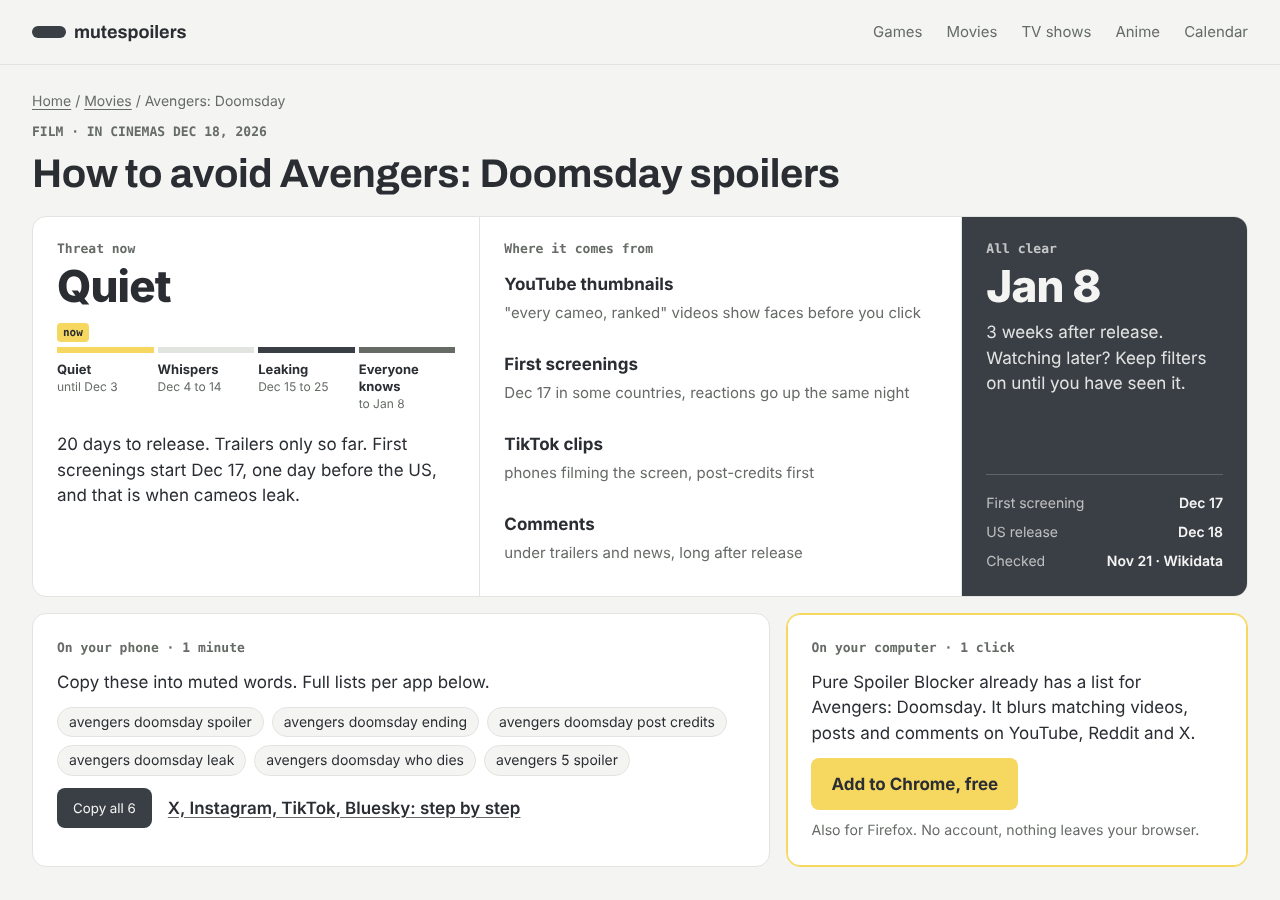
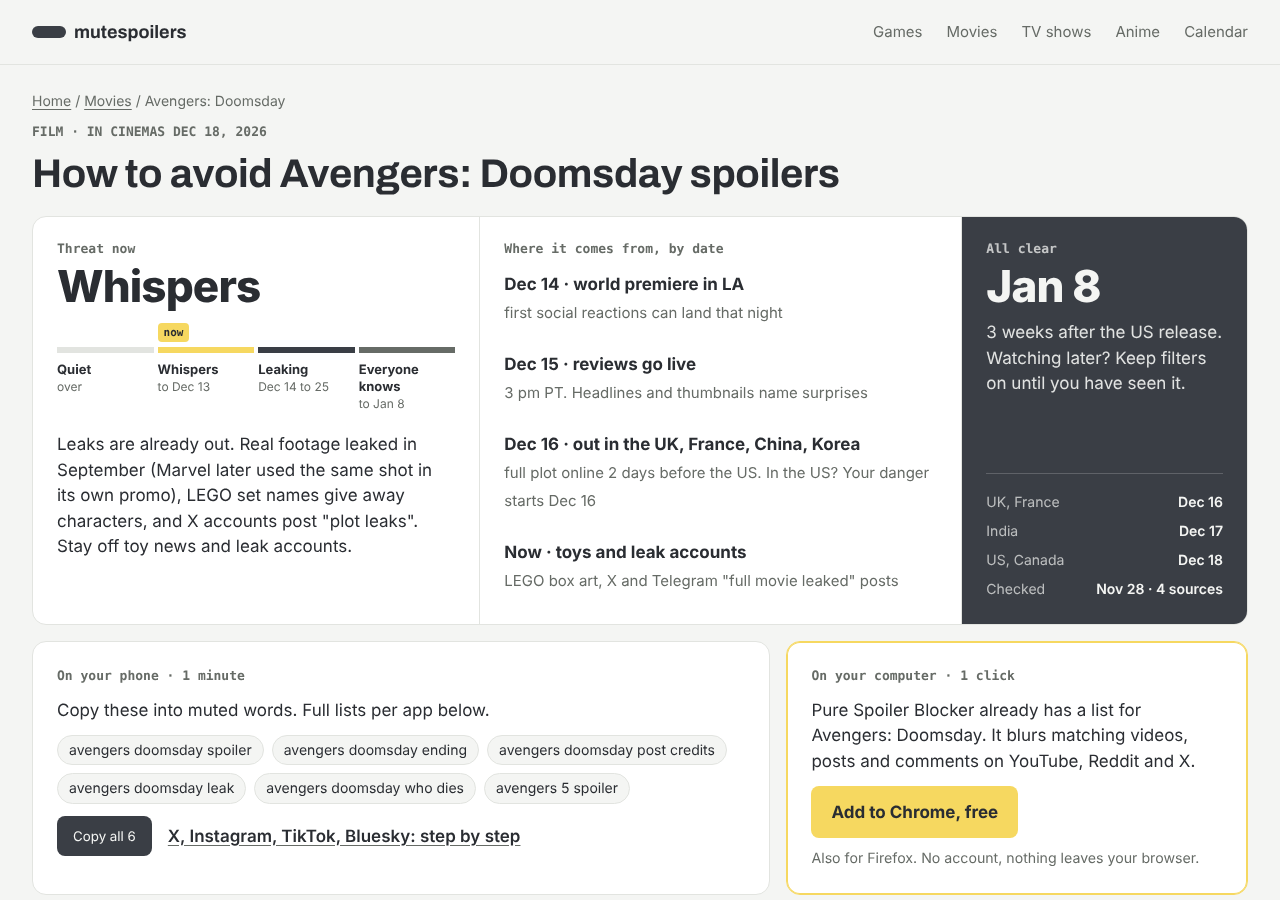
Макет прогноза Avengers: реальные данные (премьера 14.12, отзывы 15.12, Европа/Азия 16.12, утечки)
Claude-Session: https://claude.ai/code/session_013vQ4XFjWNZoNEKPE1RPyHX

diff --git a/design/mockups/title-forecast-avengers.html b/design/mockups/title-forecast-avengers.html
@@ -79,29 +79,29 @@
 <section class="fc" aria-label="Spoiler forecast">
   <div class="fc-now">
     <p class="fc-label">Threat now</p>
-    <p class="fc-level">Quiet</p>
+    <p class="fc-level">Whispers</p>
     <ol class="fc-scale" aria-label="Threat scale">
-      <li class="on"><i>now</i><b>Quiet</b><span>until Dec 3</span></li>
-      <li><b>Whispers</b><span>Dec 4 to 14</span></li>
-      <li><b>Leaking</b><span>Dec 15 to 25</span></li>
+      <li><b>Quiet</b><span>over</span></li>
+      <li class="on"><i>now</i><b>Whispers</b><span>to Dec 13</span></li>
+      <li><b>Leaking</b><span>Dec 14 to 25</span></li>
       <li><b>Everyone knows</b><span>to Jan 8</span></li>
     </ol>
-    <p class="fc-why">20 days to release. Trailers only so far. First screenings start Dec 17, one day before the US, and that is when cameos leak.</p>
+    <p class="fc-why">Leaks are already out. Real footage leaked in September (Marvel later used the same shot in its own promo), LEGO set names give away characters, and X accounts post "plot leaks". Stay off toy news and leak accounts.</p>
   </div>
   <div class="fc-from">
-    <p class="fc-label">Where it comes from</p>
+    <p class="fc-label">Where it comes from, by date</p>
     <ul>
-      <li><b>YouTube thumbnails</b><span>"every cameo, ranked" videos show faces before you click</span></li>
-      <li><b>First screenings</b><span>Dec 17 in some countries, reactions go up the same night</span></li>
-      <li><b>TikTok clips</b><span>phones filming the screen, post-credits first</span></li>
-      <li><b>Comments</b><span>under trailers and news, long after release</span></li>
+      <li><b>Dec 14 · world premiere in LA</b><span>first social reactions can land that night</span></li>
+      <li><b>Dec 15 · reviews go live</b><span>3 pm PT. Headlines and thumbnails name surprises</span></li>
+      <li><b>Dec 16 · out in the UK, France, China, Korea</b><span>full plot online 2 days before the US. In the US? Your danger starts Dec 16</span></li>
+      <li><b>Now · toys and leak accounts</b><span>LEGO box art, X and Telegram "full movie leaked" posts</span></li>
     </ul>
   </div>
   <div class="fc-clear">
     <p class="fc-label">All clear</p>
     <p class="fc-date">Jan 8</p>
-    <p class="fc-note">3 weeks after release. Watching later? Keep filters on until you have seen it.</p>
-    <dl class="fc-facts"><div><dt>First screening</dt><dd>Dec 17</dd></div><div><dt>US release</dt><dd>Dec 18</dd></div><div><dt>Checked</dt><dd>Nov 21 · Wikidata</dd></div></dl>
+    <p class="fc-note">3 weeks after the US release. Watching later? Keep filters on until you have seen it.</p>
+    <dl class="fc-facts"><div><dt>UK, France</dt><dd>Dec 16</dd></div><div><dt>India</dt><dd>Dec 17</dd></div><div><dt>US, Canada</dt><dd>Dec 18</dd></div><div><dt>Checked</dt><dd>Nov 28 · 4 sources</dd></div></dl>
   </div>
 </section>
 <section class="fc-plan" aria-label="2-minute plan">
